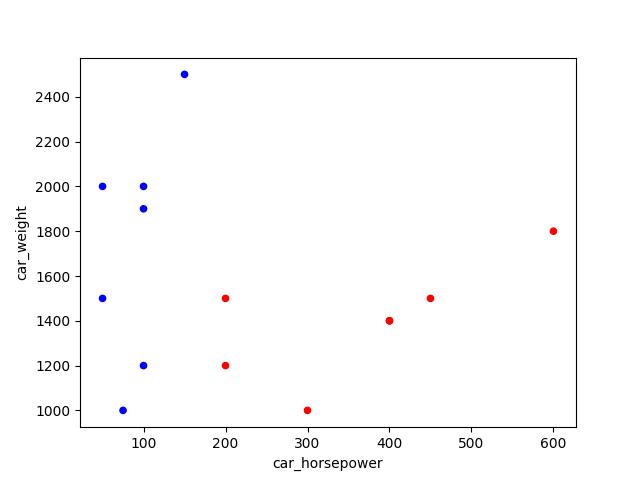
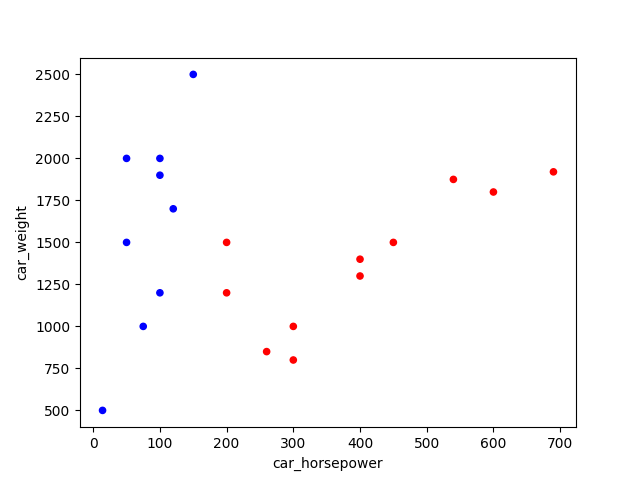
Add DataManager

diff --git a/classes/Perceptron.py b/classes/Perceptron.py
@@ -1,21 +1,69 @@
 import numpy as np
 
+from classes.Loss import Loss
+
 rg = np.random.default_rng()
 
 
-class Perceptron:
-    def __init__(self, activation_function):
-        self.activation_function = activation_function
+def sigmoid(w_sum):
+    return 1/(1+np.exp(-w_sum))
 
-    def prepare_row(self, row):
+
+class Perceptron:
+    def __init__(self, epochs=1000, learning_rate=0.1, activation_function=sigmoid):
+        self.learning_rate = learning_rate
+        self.epochs = epochs
+        self.weights = self.__generate_weights(2)
+        self.bias = 0.5
+        self.activation_function = activation_function
+        self.loss = Loss()
+
+    def __print_epoch(self, current_epoch, average_loss):
+        print("==================================")
+        print("epoch", current_epoch)
+        print("error rate: ", average_loss)
+
+    def __prepare_row(self, row):
         params = row[:-1]
         expected = row[-1]
-        return [params[0] / 1000, params[1] / 1000], expected
+        return [params[0], params[1]], expected
 
-    def __get_weighted_sum(self, params, weights, bias):
-        return np.dot(params, weights) + bias
+    def __get_weighted_sum(self, params):
+        return np.dot(params, self.weights) + self.bias
 
-    def make_prediction(self, params, weights, bias):
-        w_sum = self.__get_weighted_sum(params, weights, bias)
+    def __update_bias(self, expected, prediction):
+        return self.bias + self.learning_rate*(expected-prediction)
+
+    def __update_weights(self, expected, prediction, params):
+        new_weights = []
+        for x, w in zip(params, self.weights):
+            new_w = w + self.learning_rate*(expected-prediction)*x
+            new_weights.append(new_w)
+        return new_weights
+
+    def __generate_weights(self, n_values):
+        weights = rg.random((1, n_values))[0]
+        return weights
+
+    def __make_post_prediction_update(self, expected, prediction, params):
+        self.weights = self.__update_weights(expected, prediction, params)
+        self.bias = self.__update_bias(expected, prediction)
+
+    def make_prediction(self, params):
+        w_sum = self.__get_weighted_sum(params)
         prediction = self.activation_function(w_sum)
         return prediction
+
+    def handle_single_row(self, params, expected, prediction):
+        self.loss.add_individual_loss(expected, prediction)
+        self.__make_post_prediction_update(expected, prediction, params)
+
+    def train_model(self, data):
+        for epoch in range(self.epochs):
+            for i in range(len(data)):
+                params, expected = self.__prepare_row(data.loc[i])
+                prediction = self.make_prediction(params)
+                self.handle_single_row(params, expected, prediction)
+            average_loss = self.loss.add_epoch_loss()
+            self.__print_epoch(epoch + 1, average_loss)
+        self.loss.generate_loss_chart()

diff --git a/main.py b/main.py
@@ -1,62 +1,38 @@
 import numpy as np
-import pandas as pd
-from classes.NeuralNetwork import NeuralNetwork
+
+from classes.DataManager import DataManager
+from classes.Perceptron import Perceptron
+from classes.UserInterface import UserInterface
 
 rg = np.random.default_rng()
 
-
-neural_network = NeuralNetwork()
-
-
-def input_user_data():
-    car_horsepower = input("Enter horsepowers: ")
-    if(car_horsepower == 'q'):
-        return None, None
-
-    car_horsepower = float(car_horsepower) / 1000
-
-    car_weight = input("Enter weight: ")
-    if(car_weight == 'q'):
-        return None, None
-
-    car_weight = float(car_weight) / 1000
-
-    return car_horsepower, car_weight
+perceptron = Perceptron()
+data_manager = DataManager()
 
 
-def manual_mode(epoch):
+def manual_mode():
     while(True):
-
-        car_horsepower, car_weight = input_user_data()
-
+        user_interface = UserInterface()
+        car_horsepower, car_weight = user_interface.input_car_data()
         if(not car_horsepower or not car_weight):
             break
 
-        feature = [car_horsepower, car_weight]
+        params = [car_horsepower, car_weight]
+        prediction = perceptron.make_prediction(params)
+        expected = user_interface.input_user_answer(prediction)
+        data_manager.append(params, expected)
+        perceptron.handle_single_row(params, expected, prediction)
+    data_manager.generate_data_chart()
 
-        prediction = make_prediction(feature)
-        if prediction == 1:
-            print("Ferrari")
-        else:
-            print("Fiat")
-        answer = input("Was that Ferrari? y/n")
-        if answer == "y":
-            expected = 1
-        else:
-            expected = 0
 
-        perceptron.make_post_prediction_update(expected, prediction, feature)
-        error_rate = errors / (len(df) * epoch)
-        print_epoch(epoch, error_rate)
-        update_arrays(car_horsepower, car_weight, expected, prediction)
-
-        epoch += 1
+def auto_mode():
+    data = data_manager.read_file("data/data.csv")
+    perceptron.train_model(data)
 
 
 def main():
-    neural_network = NeuralNetwork()
-    df = pd.read_csv("data/data.csv")
-    neural_network.train_model(df)
+    auto_mode()
+    manual_mode()
 
 
 main()

diff --git a/classes/DataManager.py b/classes/DataManager.py
@@ -1,0 +1,64 @@
+import pandas as pd
+import copy
+
+
+class DataManager:
+    data = []
+
+    @staticmethod
+    def map_colors(x):
+        return 'red' if x == 1 else 'blue'
+
+    @staticmethod
+    def compress_number(number):
+        return number / 1000
+
+    @staticmethod
+    def decompress_number(number):
+        return number * 1000
+
+    def generate_loss_chart(self, epoch_loss):
+        df = pd.DataFrame(epoch_loss)
+        df_plot = df.plot(kind="line", grid=True).get_figure()
+        df_plot.savefig("charts/Training_Loss.png")
+
+    def prepare_to_view(self):
+        df = copy.deepcopy(pd.DataFrame(self.data))
+        df['car_horsepower'] *= 1000
+        df['car_weight'] *= 1000
+        return df
+
+    def compress_to_calculate(self, data):
+        new_data = data
+        new_data['car_horsepower'] /= 1000
+        new_data['car_weight'] /= 1000
+        return new_data
+
+    def generate_data_chart(self):
+        data = self.prepare_to_view()
+        df = pd.DataFrame(data)
+        df_plot = df.plot.scatter(
+            x='car_horsepower', y='car_weight', c=df['expected'].map(self.map_colors)
+        )
+        fig = df_plot.get_figure()
+        self.save_to_file("data/data.csv")
+        fig.savefig("charts/chart.png")
+
+    def read_file(self, file_name):
+        data = pd.read_csv(file_name)
+        compressed_data = self.compress_to_calculate(data)
+        self.data = compressed_data
+        return compressed_data
+
+    def append(self, params, expected):
+        new_row = pd.DataFrame({
+            'car_horsepower': params[0],
+            'car_weight': params[1],
+            'expected': expected
+        }, index=[len(self.data) - 1])
+        self.data = pd.concat([self.data, new_row], ignore_index=True)
+
+    def save_to_file(self, file_name):
+        data = self.prepare_to_view()
+        df = pd.DataFrame(data)
+        df.to_csv(file_name, index=False)

diff --git a/classes/UserInterface.py b/classes/UserInterface.py
@@ -1,0 +1,30 @@
+class UserInterface:
+    def __input_data(self, label):
+        data = input(label)
+        if(data == 'q'):
+            return None
+
+        return float(data) / 1000
+
+    def input_car_data(self):
+        car_horsepower = self.__input_data('Enter horsepower: ')
+        if not car_horsepower:
+            return None, None
+        car_weight = self.__input_data('Enter weight: ')
+        if not car_weight:
+            return None, None
+        
+        return car_horsepower, car_weight
+
+    def __print_probability(self, prediction, manufacturer):
+        print(f"Probability of {manufacturer}: {prediction * 100} %")
+
+    def input_user_answer(self, prediction):
+        if prediction > 0.5:
+            self.__print_probability(prediction, 'Ferrari')
+            expected = 1
+        else:
+            self.__print_probability(1 - prediction, 'Fiat')
+            expected = 0
+        answer = input("Was that true? y/n\n")
+        return expected if answer == 'y' else 1 - expected

diff --git a/classes/Loss.py b/classes/Loss.py
@@ -1,5 +1,7 @@
 import numpy as np
 
+from classes.DataManager import DataManager
+
 
 class Loss:
     def __init__(self):
@@ -20,3 +22,7 @@ class Loss:
         average_loss = self.get_average_loss()
         self.epoch_loss.append(average_loss)
         return average_loss
+
+    def generate_loss_chart(self):
+        chart = DataManager()
+        chart.generate_loss_chart(self.epoch_loss)
